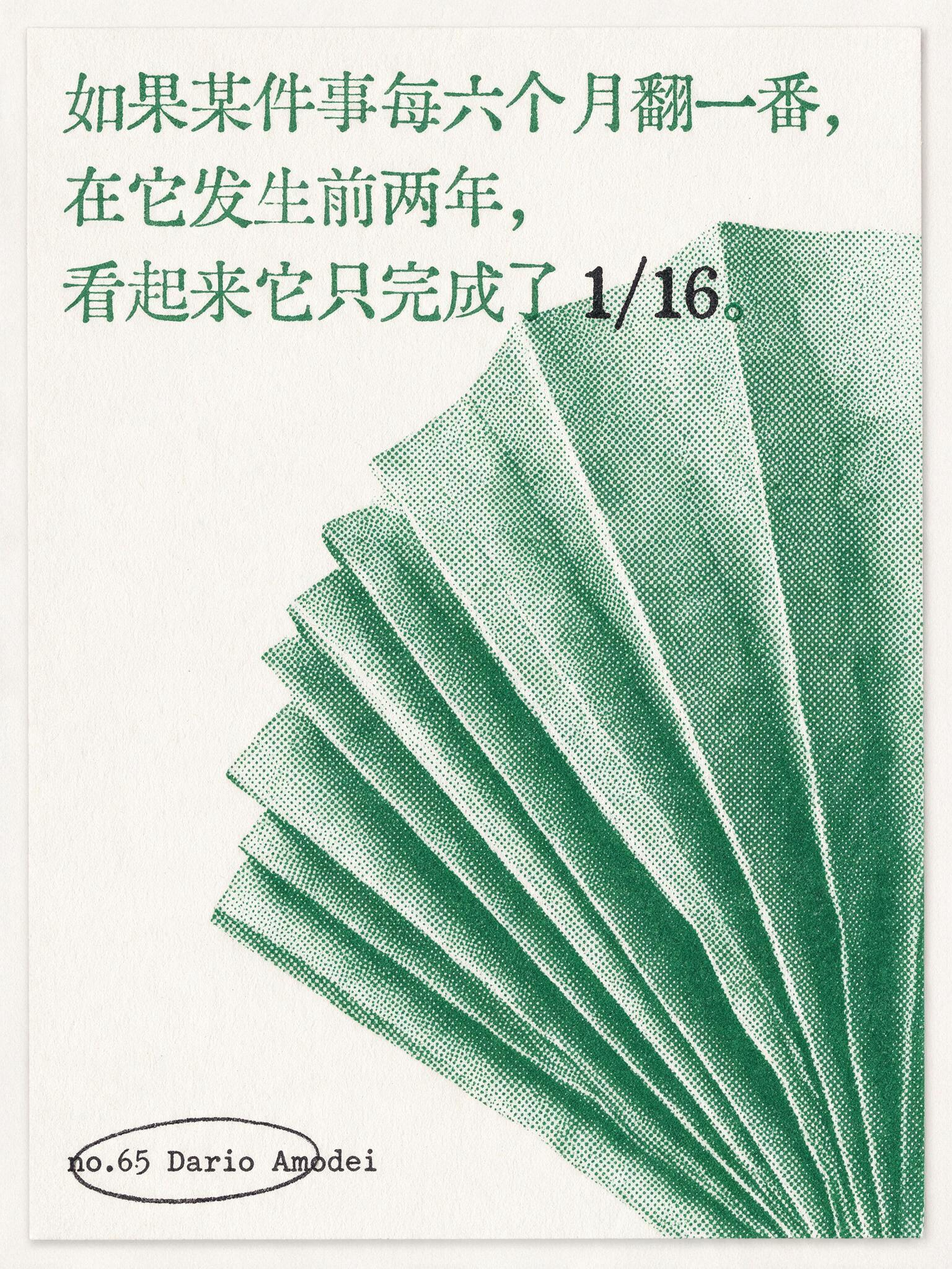
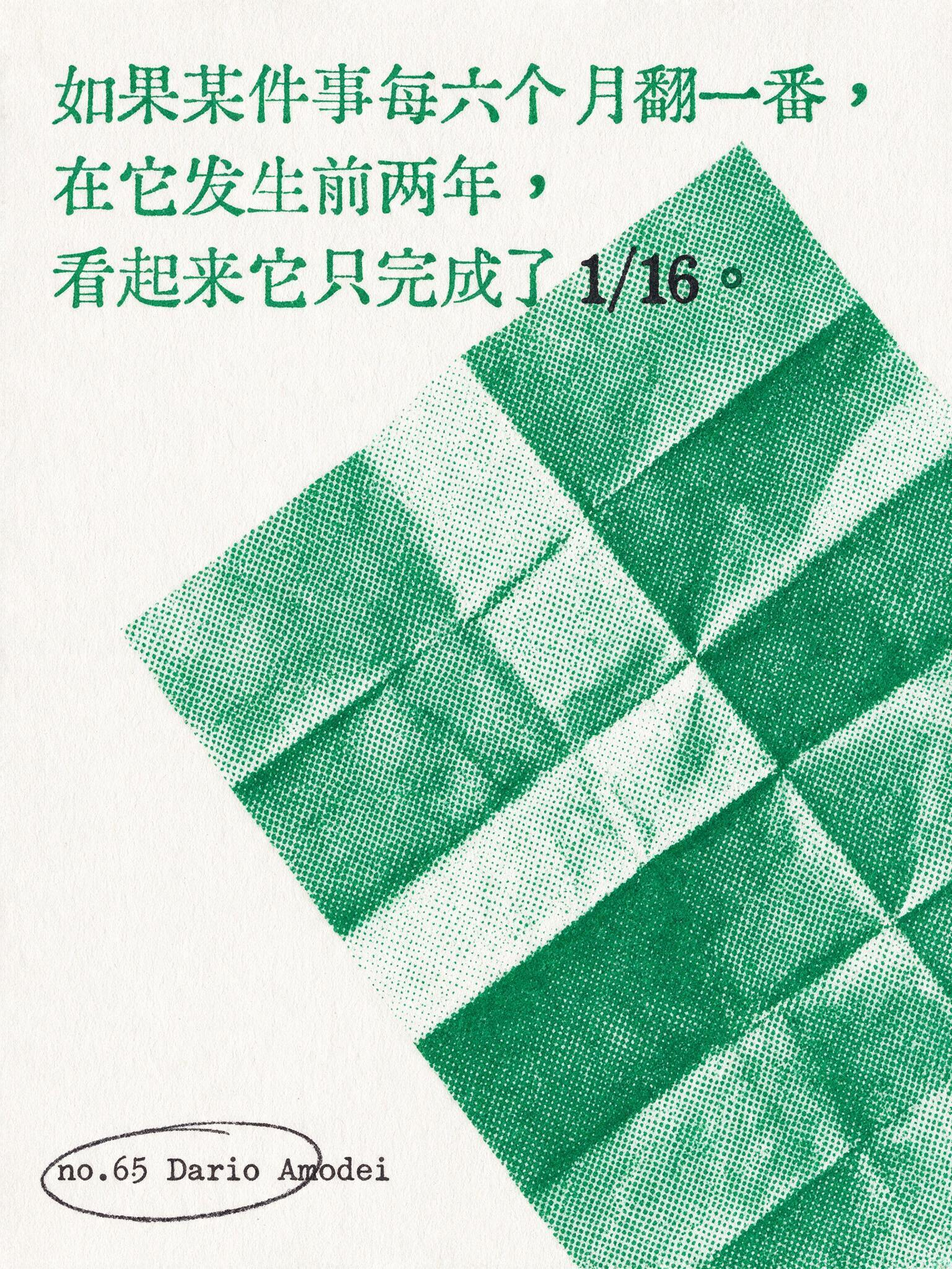
Ink law: saturate the working palette
Working ink pairs move to full-strength print primaries — electric x carbon
joins the library, indigo deepens, tomato replaces vermilion, viridian
replaces bamboo — and the muted ink-blue x ochre pair retires to a
by-request archival line. Two v1 house laws return: a color is either
full-strength or off press, and a loanword or numeral inside the sentence
may take the accent ink as its job. no.81 and no.65 reprinted in the
saturated inks.

diff --git a/FINGERPRINT.md b/FINGERPRINT.md
@@ -17,13 +17,13 @@ Every tracked file's SHA-256 in this release. A file found elsewhere that matche
 | File | SHA-256 |
 |---|---|
[15 lines of base64/hex data omitted]

diff --git a/README.md b/README.md
@@ -27,9 +27,11 @@ Original palette, named and mixed in-house. 自研色系，禁用库外色值。
 | Ink pair 双墨对 | Hex | Domain |
 |---|---|---|
 | 辉蓝 × 熔橙 Aurora × Molten | `#105CBD` × `#E96D3D` | default pair; technology, creation, product |
-| 靛青 × 朱砂 Indigo × Vermilion | `#26468F` × `#C03A2B` | declarations, darkest hours, decisions |
-| 竹青 × 玄墨 Bamboo × Carbon | `#3D7A55` × `#2A2B2E` | observation, research, the long game |
-| 黛蓝 × 赭石 Ink-blue × Ochre | `#2F4C6B` × `#B26A3C` | years, archives, looking back |
+| 电蓝 × 碳黑 Electric × Carbon | `#1C39E0` × `#26251F` | big scenes, contemporary culture, charged judgments |
+| 靛青 × 番茄红 Indigo × Tomato | `#2447A6` × `#D93A2B` | declarations, darkest hours, decisions |
+| 翠绿 × 玄墨 Viridian × Carbon | `#0F9155` × `#2A2B2E` | observation, research, the long game |
+
+One muted heirloom pair — 黛蓝 × 赭石 ink-blue × ochre `#2F4C6B` × `#B26A3C` — is reserved for rice-paper archival subjects, by request only. Working inks stay saturated: a color is either full-strength or off press (a v1 house law). An English word or a numeral inside the sentence may take the accent ink as its job — black-on-Chinese, color-on-the-loanword is part of the series grammar. 工作墨一律高饱和；句中的英文词或数字可升格为副墨差事。
 
 Overprint darkening is physics, not a third ink; sparse dots showing paper is exposure, not a new color. 叠印变深是物理，不是加色。
 
